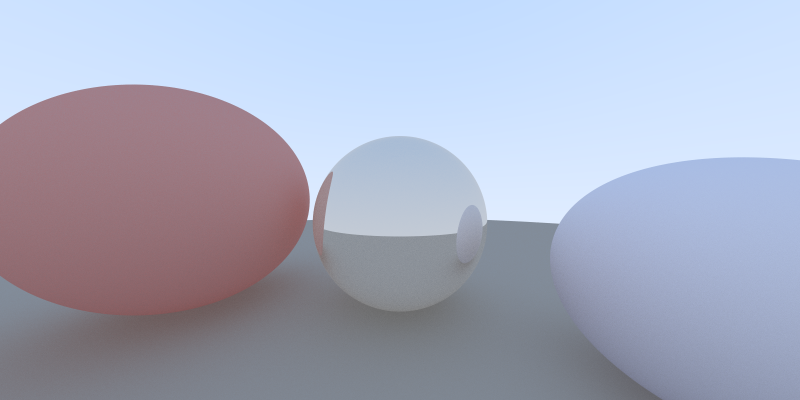
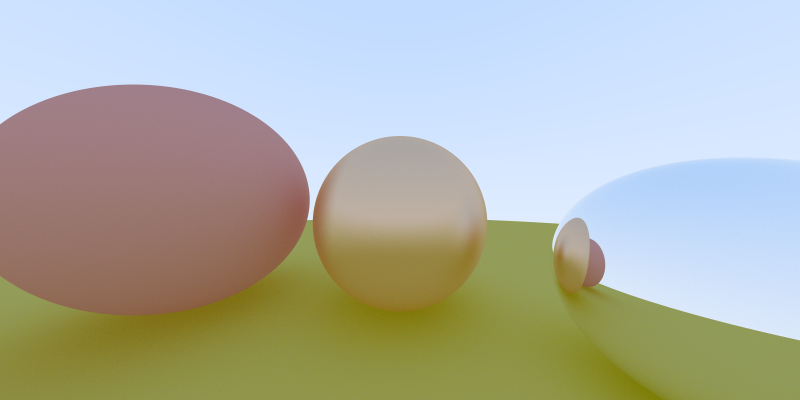
add roughness parameter to metal material

diff --git a/java/src/raytracer/Raytracer.java b/java/src/raytracer/Raytracer.java
@@ -42,13 +42,13 @@ public class Raytracer {
 	    Vec3 origin = new Vec3(0, 0, 0);
 	    
 	    List<Surface> surfaces = new ArrayList<Surface>();
-	    Material metal = new Metal(0.7);
-	    Material matte = new Lambertian(0.5, new Vec3(0.5, 0.5, 0.5));
+	    Material roughCopper = new Metal(0.7, new Vec3(1.0, 0.4, 0.05), 0.8);
+	    Material matte = new Lambertian(0.5, new Vec3(0.8, 0.8, 0.0));
 	    Material redMatte = new Lambertian(0.5, new Vec3(1.0, 0.3, 0.3));
-	    Material blueMatte = new Lambertian(0.8, new Vec3(0.5, 0.5, 1.0));
+	    Material mirror = new Metal(0.99, new Vec3(0.0, 0.0, 0.0), 0);
 	    surfaces.add(new Sphere(new Vec3(-1.0, 0, -1), 0.5, redMatte));
-	    surfaces.add(new Sphere(new Vec3(0, -0.1, -1), 0.4, metal));
-	    surfaces.add(new Sphere(new Vec3(0.75, -0.2, -0.5), 0.3, blueMatte));
+	    surfaces.add(new Sphere(new Vec3(0, -0.1, -1), 0.4, roughCopper));
+	    surfaces.add(new Sphere(new Vec3(0.75, -0.2, -0.5), 0.3, mirror));
 	    surfaces.add(new Sphere(new Vec3(0, -100.5, -1), 100, matte));
 	    
 	    Scene scene = new Scene(surfaces);

diff --git a/java/src/raytracer/Metal.java b/java/src/raytracer/Metal.java
@@ -2,15 +2,18 @@ package raytracer;
 
 public class Metal extends Material {
 	
-	public Metal(double albedo) {
-		super(albedo, new Vec3(1, 1, 1));
-		this.albedo = albedo;
+	private double roughness;
+	
+	public Metal(double albedo, Vec3 color, double roughness) {
+		super(albedo, color);
+		this.roughness = roughness;
 	}
 	
 	@Override
 	public Ray3 scatter(Ray3 r, Vec3 pointOfIntersection, Vec3 normal) {
 		Vec3 reflected = Vec3.reflect(Vec3.normalize(r.getDirection()), normal);
-		return new Ray3(pointOfIntersection, reflected);
+		Vec3 roughnessBounce = Vec3.scale(Vec3.randomInUnitSphere(), roughness);
+		return new Ray3(pointOfIntersection, Vec3.add(reflected, roughnessBounce));
 	}
 	
 }
